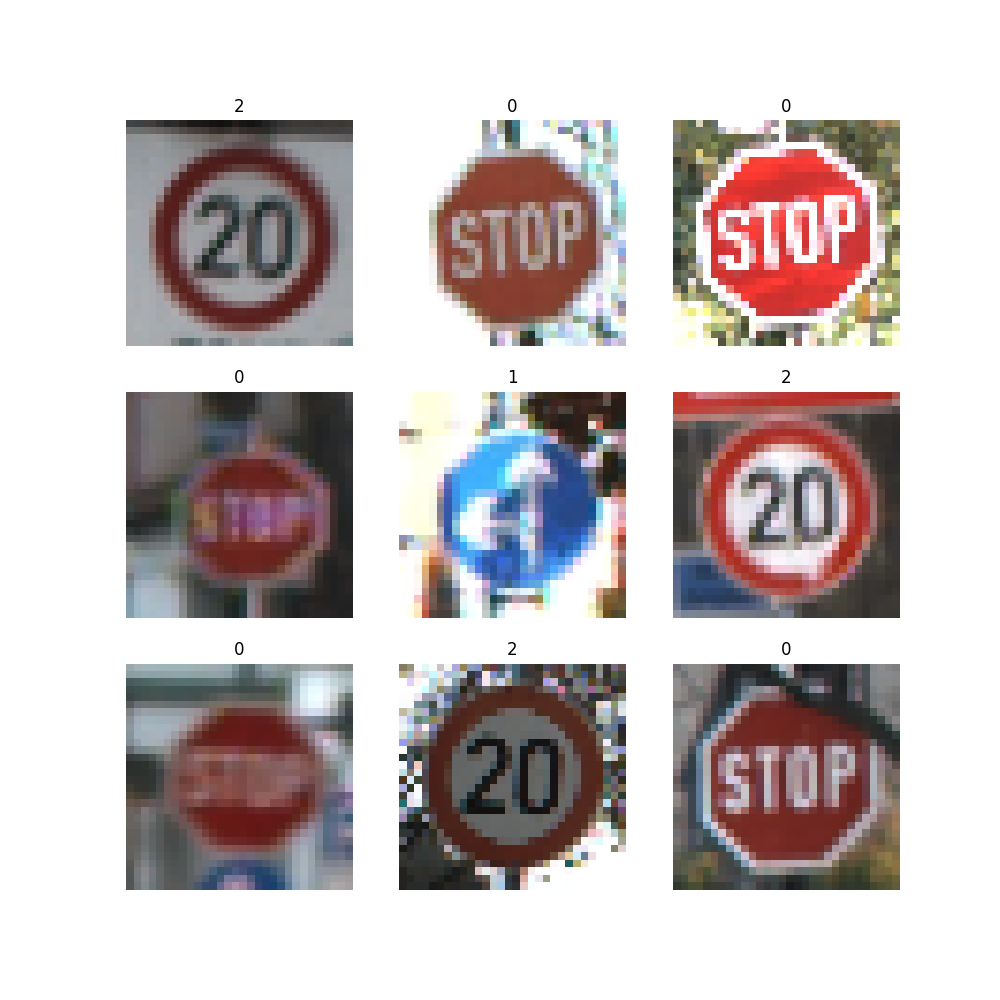
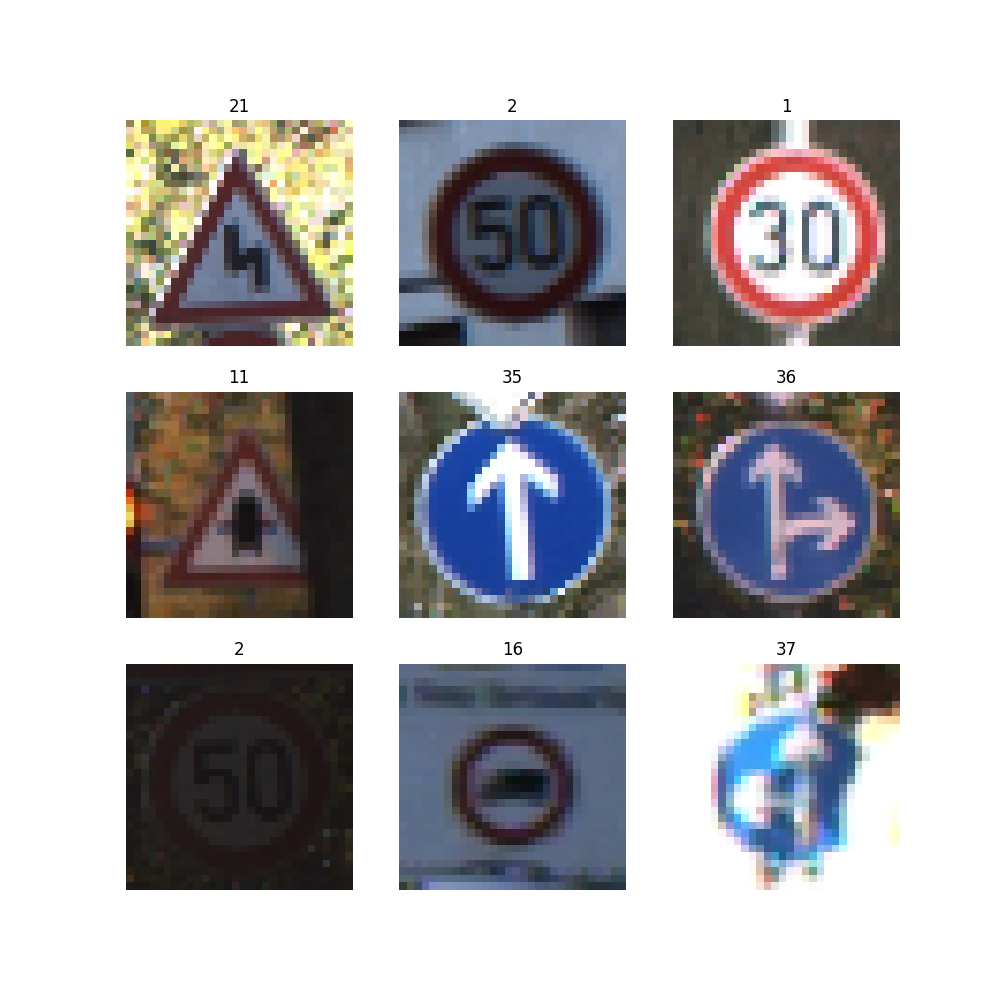
different models added
Use of augmentation, batch normalization, transfer learning, and callbacks

diff --git a/src/road_sign_vision/model.py b/src/road_sign_vision/model.py
@@ -1,39 +1,110 @@
 import tensorflow as tf
 
-from road_sign_vision.config import IMG_HEIGHT, IMG_WIDTH, NUM_CATEGORIES
+from road_sign_vision.config import (
+    FINE_TUNE,
+    IMG_HEIGHT,
+    IMG_WIDTH,
+    NUM_CATEGORIES,
+    TRANSFER_IMG_SIZE,
+)
+
+# Safe augmentations for traffic signs: small rotations/zoom/brightness only.
+# No horizontal flip and no large rotation — those can turn one sign's meaning
+# into a different (or nonsensical) one, e.g. flipping a "keep right" arrow.
+_augmentation = tf.keras.Sequential([
+    tf.keras.layers.RandomRotation(0.05),
+    tf.keras.layers.RandomZoom(0.1),
+    tf.keras.layers.RandomBrightness(0.1),
+], name="augmentation")
 
 
-def get_model():
+def get_baseline_model():
     """
-    Returns a compiled convolutional neural network model. Assume that the
-    `input_shape` of the first layer is `(IMG_WIDTH, IMG_HEIGHT, 3)`.
-    The output layer should have `NUM_CATEGORIES` units, one for each category.
+    The original CS50 CNN, as the control for comparison:
+    Conv2D(32) -> MaxPool -> Flatten -> Dense(128) -> Dropout(0.5) -> Dense(softmax).
     """
-    model = tf.keras.models.Sequential([
+    inputs = tf.keras.Input(shape=(IMG_HEIGHT, IMG_WIDTH, 3))
+    x = tf.keras.layers.Rescaling(1.0 / 255)(inputs)
 
-        # Convolutional layer. Learn 32 filters using a 3x3 kernel
-        tf.keras.layers.Conv2D(
-            32, (3, 3), activation="relu", input_shape=(IMG_WIDTH, IMG_HEIGHT, 3)
-        ),
+    x = tf.keras.layers.Conv2D(32, (3, 3), activation="relu")(x)
+    x = tf.keras.layers.MaxPooling2D(pool_size=(2, 2))(x)
+    x = tf.keras.layers.Flatten()(x)
+    x = tf.keras.layers.Dense(128, activation="relu")(x)
+    x = tf.keras.layers.Dropout(0.5)(x)
+    outputs = tf.keras.layers.Dense(NUM_CATEGORIES, activation="softmax")(x)
 
-        # Max-pooling layer, using 2x2 pool size
-        tf.keras.layers.MaxPooling2D(pool_size=(2, 2)),
+    model = tf.keras.Model(inputs, outputs, name="baseline_cnn")
+    model.compile(optimizer="adam", loss="categorical_crossentropy", metrics=["accuracy"])
+    return model
 
-        # Flatten units
-        tf.keras.layers.Flatten(),
 
-        # Add a hidden layer with dropout
-        tf.keras.layers.Dense(128, activation="relu"),
-        tf.keras.layers.Dropout(0.5),
+def get_deep_model(augment=True):
+    """
+    A deeper CNN: 3 conv blocks (Conv -> BatchNorm -> ReLU -> MaxPool -> Dropout),
+    optionally with data augmentation applied before the first conv block.
+    """
+    inputs = tf.keras.Input(shape=(IMG_HEIGHT, IMG_WIDTH, 3))
+    x = inputs
 
-        # Add an output layer with output units for all categories
-        tf.keras.layers.Dense(NUM_CATEGORIES, activation="softmax")
-    ])
+    if augment:
+        x = _augmentation(x)
 
-    model.compile(
-        optimizer="adam",
-        loss="categorical_crossentropy",
-        metrics=["accuracy"]
+    x = tf.keras.layers.Rescaling(1.0 / 255)(x)
+
+    for filters in (32, 64, 128):
+        x = tf.keras.layers.Conv2D(filters, (3, 3), padding="same")(x)
+        x = tf.keras.layers.BatchNormalization()(x)
+        x = tf.keras.layers.Activation("relu")(x)
+        x = tf.keras.layers.MaxPooling2D(pool_size=(2, 2))(x)
+        x = tf.keras.layers.Dropout(0.25)(x)
+
+    x = tf.keras.layers.Flatten()(x)
+    x = tf.keras.layers.Dense(256, activation="relu")(x)
+    x = tf.keras.layers.BatchNormalization()(x)
+    x = tf.keras.layers.Dropout(0.5)(x)
+    outputs = tf.keras.layers.Dense(NUM_CATEGORIES, activation="softmax")(x)
+
+    model = tf.keras.Model(inputs, outputs, name="deep_cnn")
+    model.compile(optimizer="adam", loss="categorical_crossentropy", metrics=["accuracy"])
+    return model
+
+
+def get_transfer_model(fine_tune=FINE_TUNE):
+    """
+    MobileNetV2 pretrained on ImageNet as a frozen feature extractor, with a
+    small classifier head trained on top. If `fine_tune` is True, unfreezes
+    the base and continues training end-to-end at a low learning rate.
+
+    MobileNetV2 requires inputs of at least 32x32; GTSRB images are resized
+    to IMG_WIDTH/IMG_HEIGHT (30x30 by default), so we upscale to
+    TRANSFER_IMG_SIZE before feeding the base model.
+    """
+    inputs = tf.keras.Input(shape=(IMG_HEIGHT, IMG_WIDTH, 3))
+    x = tf.keras.layers.Resizing(TRANSFER_IMG_SIZE, TRANSFER_IMG_SIZE)(inputs)
+    # MobileNetV2 expects its own specific preprocessing (scales pixels to
+    # [-1, 1]) — not the plain /255 rescaling the other two models use.
+    x = tf.keras.applications.mobilenet_v2.preprocess_input(x)
+
+    base = tf.keras.applications.MobileNetV2(
+        input_shape=(TRANSFER_IMG_SIZE, TRANSFER_IMG_SIZE, 3),
+        include_top=False,
+        weights="imagenet",
     )
+    base.trainable = fine_tune
 
+    x = base(x, training=fine_tune)
+    x = tf.keras.layers.GlobalAveragePooling2D()(x)
+    x = tf.keras.layers.Dense(128, activation="relu")(x)
+    x = tf.keras.layers.Dropout(0.3)(x)
+    outputs = tf.keras.layers.Dense(NUM_CATEGORIES, activation="softmax")(x)
+
+    model = tf.keras.Model(inputs, outputs, name="transfer_mobilenetv2")
+    # Fine-tuning uses a much smaller learning rate so it nudges the
+    # pretrained weights instead of overwriting them.
+    learning_rate = 1e-5 if fine_tune else 1e-3
+    model.compile(
+        optimizer=tf.keras.optimizers.Adam(learning_rate=learning_rate),
+        loss="categorical_crossentropy",
+        metrics=["accuracy"],
+    )
     return model

diff --git a/src/road_sign_vision/train.py b/src/road_sign_vision/train.py
@@ -1,11 +1,64 @@
+import csv
 import logging
+import os
+import time
 
-from road_sign_vision.config import DATA_DIR, EPOCHS, MODEL_OUT
+import tensorflow as tf
+
+from road_sign_vision.config import (
+    AUGMENT,
+    DATA_DIR,
+    EPOCHS,
+    EXPERIMENT,
+    FINE_TUNE,
+    MODEL_OUT,
+    PATIENCE,
+    RESULTS_CSV,
+)
 from road_sign_vision.data import get_datasets, save_sample_grid
-from road_sign_vision.model import get_model
+from road_sign_vision.model import get_baseline_model, get_deep_model, get_transfer_model
 
 logging.basicConfig(level=logging.INFO, format="%(asctime)s %(levelname)s %(message)s")
 logger = logging.getLogger(__name__)
+
+
+def build_model():
+    if EXPERIMENT == "baseline":
+        return get_baseline_model()
+    if EXPERIMENT == "deep":
+        return get_deep_model(augment=AUGMENT)
+    if EXPERIMENT == "transfer":
+        return get_transfer_model(fine_tune=FINE_TUNE)
+    raise ValueError(f"Unknown EXPERIMENT: {EXPERIMENT!r} (expected baseline|deep|transfer)")
+
+
+def build_callbacks():
+    return [
+        # Stop once validation loss stops improving, and roll back to the
+        # best epoch's weights instead of whatever the last epoch produced.
+        tf.keras.callbacks.EarlyStopping(
+            monitor="val_loss", patience=PATIENCE, restore_best_weights=True
+        ),
+        # Persist the best-seen model to disk as training progresses, so the
+        # saved artifact is the best epoch, not necessarily the last one.
+        tf.keras.callbacks.ModelCheckpoint(
+            MODEL_OUT, monitor="val_loss", save_best_only=True
+        ),
+    ]
+
+
+def log_results(model_name, params, val_accuracy, test_accuracy, train_seconds, notes):
+    os.makedirs(os.path.dirname(RESULTS_CSV), exist_ok=True)
+    is_new = not os.path.exists(RESULTS_CSV)
+    with open(RESULTS_CSV, "a", newline="") as f:
+        writer = csv.writer(f)
+        if is_new:
+            writer.writerow(
+                ["model", "params", "val_accuracy", "test_accuracy", "train_seconds", "notes"]
+            )
+        writer.writerow([model_name, params, f"{val_accuracy:.4f}", f"{test_accuracy:.4f}",
+                          f"{train_seconds:.1f}", notes])
+    logger.info("Result appended to %s", RESULTS_CSV)
 
 
 def main():
@@ -14,16 +67,28 @@ def main():
 
     save_sample_grid(train_ds, class_names)
 
-    model = get_model()
+    logger.info("Experiment: %s (augment=%s, fine_tune=%s)", EXPERIMENT, AUGMENT, FINE_TUNE)
+    model = build_model()
+    params = model.count_params()
 
-    logger.info("Training for %d epochs", EPOCHS)
-    model.fit(train_ds, validation_data=val_ds, epochs=EPOCHS)
+    logger.info("Training for up to %d epochs (early stopping patience=%d)", EPOCHS, PATIENCE)
+    start = time.time()
+    history = model.fit(
+        train_ds, validation_data=val_ds, epochs=EPOCHS, callbacks=build_callbacks()
+    )
+    train_seconds = time.time() - start
 
-    loss, accuracy = model.evaluate(test_ds, verbose=2)
-    logger.info("Test loss: %.4f, test accuracy: %.4f", loss, accuracy)
+    val_accuracy = max(history.history["val_accuracy"])
+    loss, test_accuracy = model.evaluate(test_ds, verbose=2)
+    logger.info("Test loss: %.4f, test accuracy: %.4f", loss, test_accuracy)
 
     model.save(MODEL_OUT)
     logger.info("Model saved to %s", MODEL_OUT)
+
+    notes = f"augment={AUGMENT}" if EXPERIMENT == "deep" else (
+        f"fine_tune={FINE_TUNE}" if EXPERIMENT == "transfer" else "control"
+    )
+    log_results(EXPERIMENT, params, val_accuracy, test_accuracy, train_seconds, notes)
 
 
 if __name__ == "__main__":

diff --git a/src/road_sign_vision/data.py b/src/road_sign_vision/data.py
@@ -20,10 +20,6 @@ from road_sign_vision.config import (
 
 logger = logging.getLogger(__name__)
 
-# Rescale pixel values from [0, 255] to [0, 1] so the network trains on small,
-# consistently-scaled inputs instead of raw 8-bit pixel values.
-normalization_layer = tf.keras.layers.Rescaling(1.0 / 255)
-
 
 def _log_class_counts(data_dir):
     """Log how many images are in each category folder, surfacing class imbalance."""
@@ -107,10 +103,11 @@ def get_datasets(data_dir=DATA_DIR):
     val_ds = val_test_ds.take(val_batches // 2)
     test_ds = val_test_ds.skip(val_batches // 2)
 
-    # NORMALIZATION: map the [0, 255] -> [0, 1] rescale over every dataset.
-    train_ds = train_ds.map(lambda x, y: (normalization_layer(x), y))
-    val_ds = val_ds.map(lambda x, y: (normalization_layer(x), y))
-    test_ds = test_ds.map(lambda x, y: (normalization_layer(x), y))
+    # NORMALIZATION: NOT done here anymore as of Phase 4. Different model
+    # architectures need different pixel scaling (plain /255 for the baseline
+    # and deep CNNs, MobileNetV2's own preprocess_input for transfer learning),
+    # so each model in model.py now owns its own preprocessing as its first
+    # layer(s). These datasets stay in raw [0, 255] so any model can use them.
 
     # PREFETCHING: let TensorFlow load/decode the next batch on the CPU while
     # the current batch is still training, instead of the model sitting idle
@@ -139,7 +136,8 @@ def save_sample_grid(dataset, class_names, out_path=None):
     plt.figure(figsize=(10, 10))
     for i in range(min(9, images.shape[0])):
         plt.subplot(3, 3, i + 1)
-        plt.imshow(images[i].numpy())
+        # Images are raw [0, 255] now (see get_datasets) — scale for display.
+        plt.imshow(images[i].numpy().astype("uint8"))
         label_index = tf.argmax(labels[i]).numpy()
         plt.title(class_names[label_index])
         plt.axis("off")

diff --git a/src/road_sign_vision/config.py b/src/road_sign_vision/config.py
@@ -10,9 +10,17 @@ IMG_HEIGHT = int(os.environ.get("IMG_HEIGHT", 30))
 NUM_CATEGORIES = int(os.environ.get("NUM_CATEGORIES", 43))
 TEST_SIZE = float(os.environ.get("TEST_SIZE", 0.4))
 DATA_DIR = os.environ.get("DATA_DIR", "data/gtsrb")
-MODEL_OUT = os.environ.get("MODEL_OUT", "models/model.h5")
+MODEL_OUT = os.environ.get("MODEL_OUT", "models/model.keras")
 
 BATCH_SIZE = int(os.environ.get("BATCH_SIZE", 32))
 VAL_SPLIT = float(os.environ.get("VAL_SPLIT", 0.3))
 SEED = int(os.environ.get("SEED", 123))
 REPORTS_DIR = os.environ.get("REPORTS_DIR", "reports")
+
+# Phase 4 — experiment selection and tracking
+EXPERIMENT = os.environ.get("EXPERIMENT", "baseline")  # baseline | deep | transfer
+AUGMENT = os.environ.get("AUGMENT", "true").lower() == "true"
+FINE_TUNE = os.environ.get("FINE_TUNE", "false").lower() == "true"
+PATIENCE = int(os.environ.get("PATIENCE", 5))
+TRANSFER_IMG_SIZE = int(os.environ.get("TRANSFER_IMG_SIZE", 96))
+RESULTS_CSV = os.environ.get("RESULTS_CSV", "reports/experiment_results.csv")